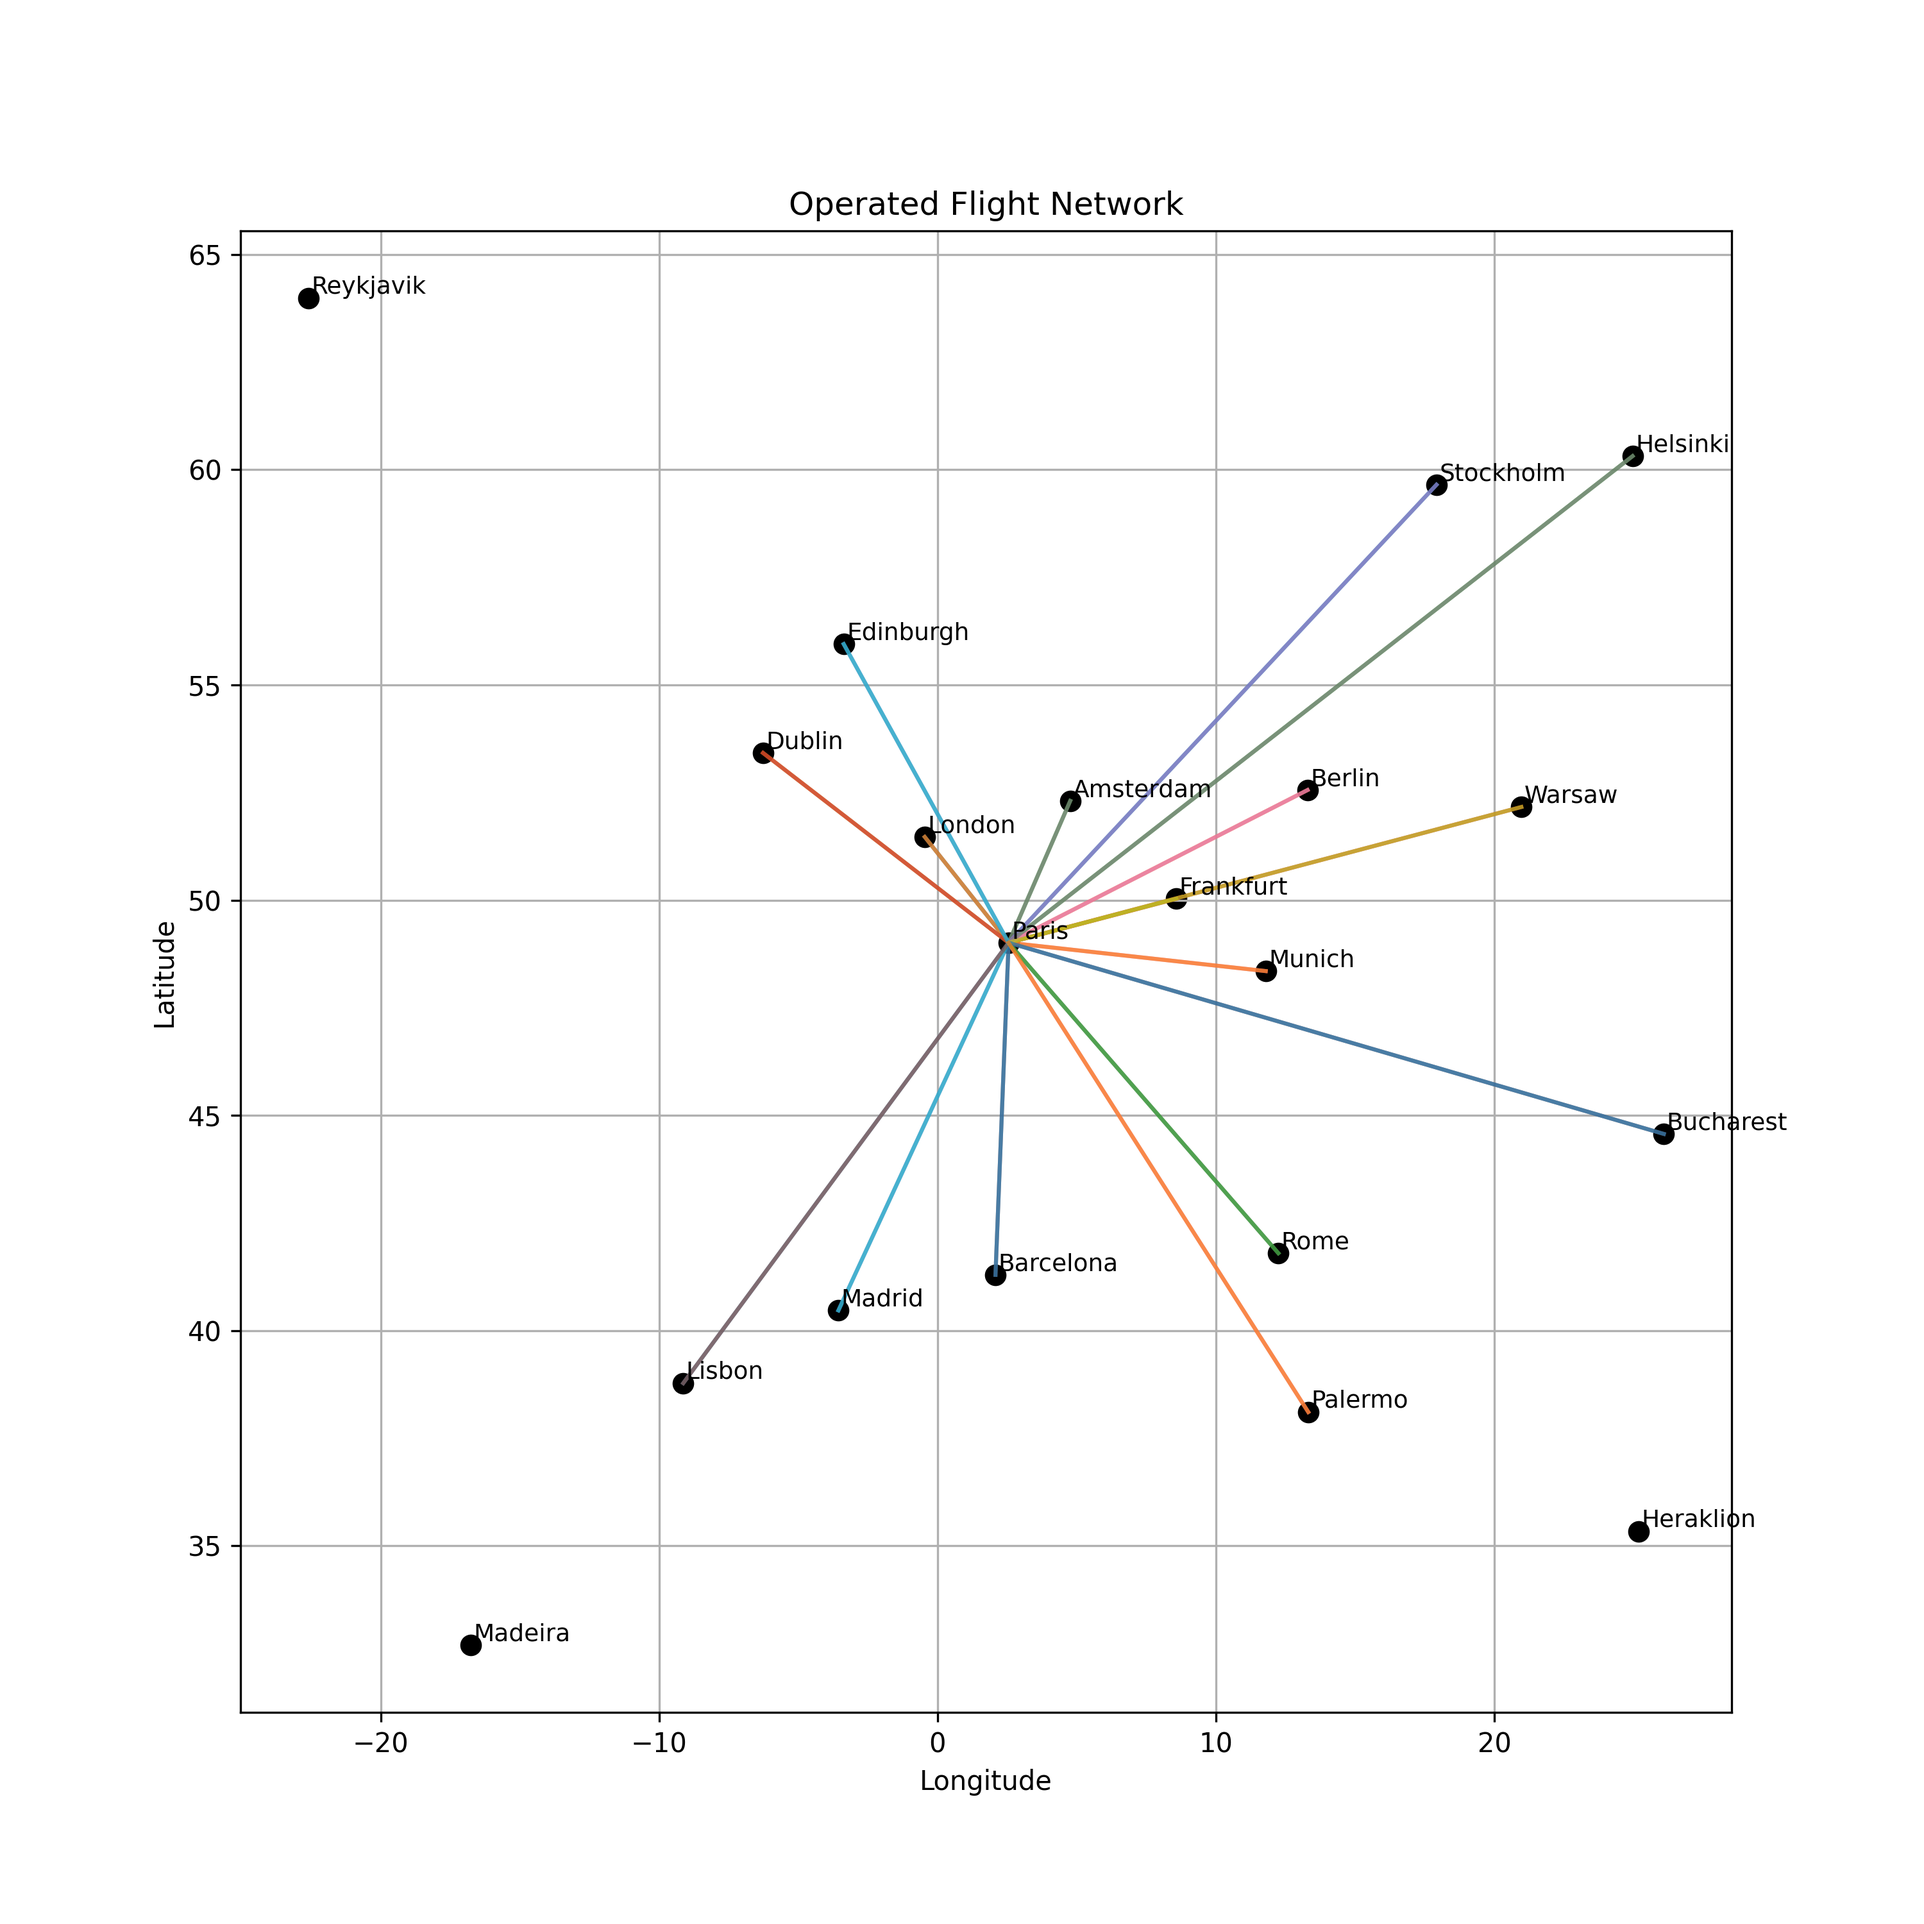
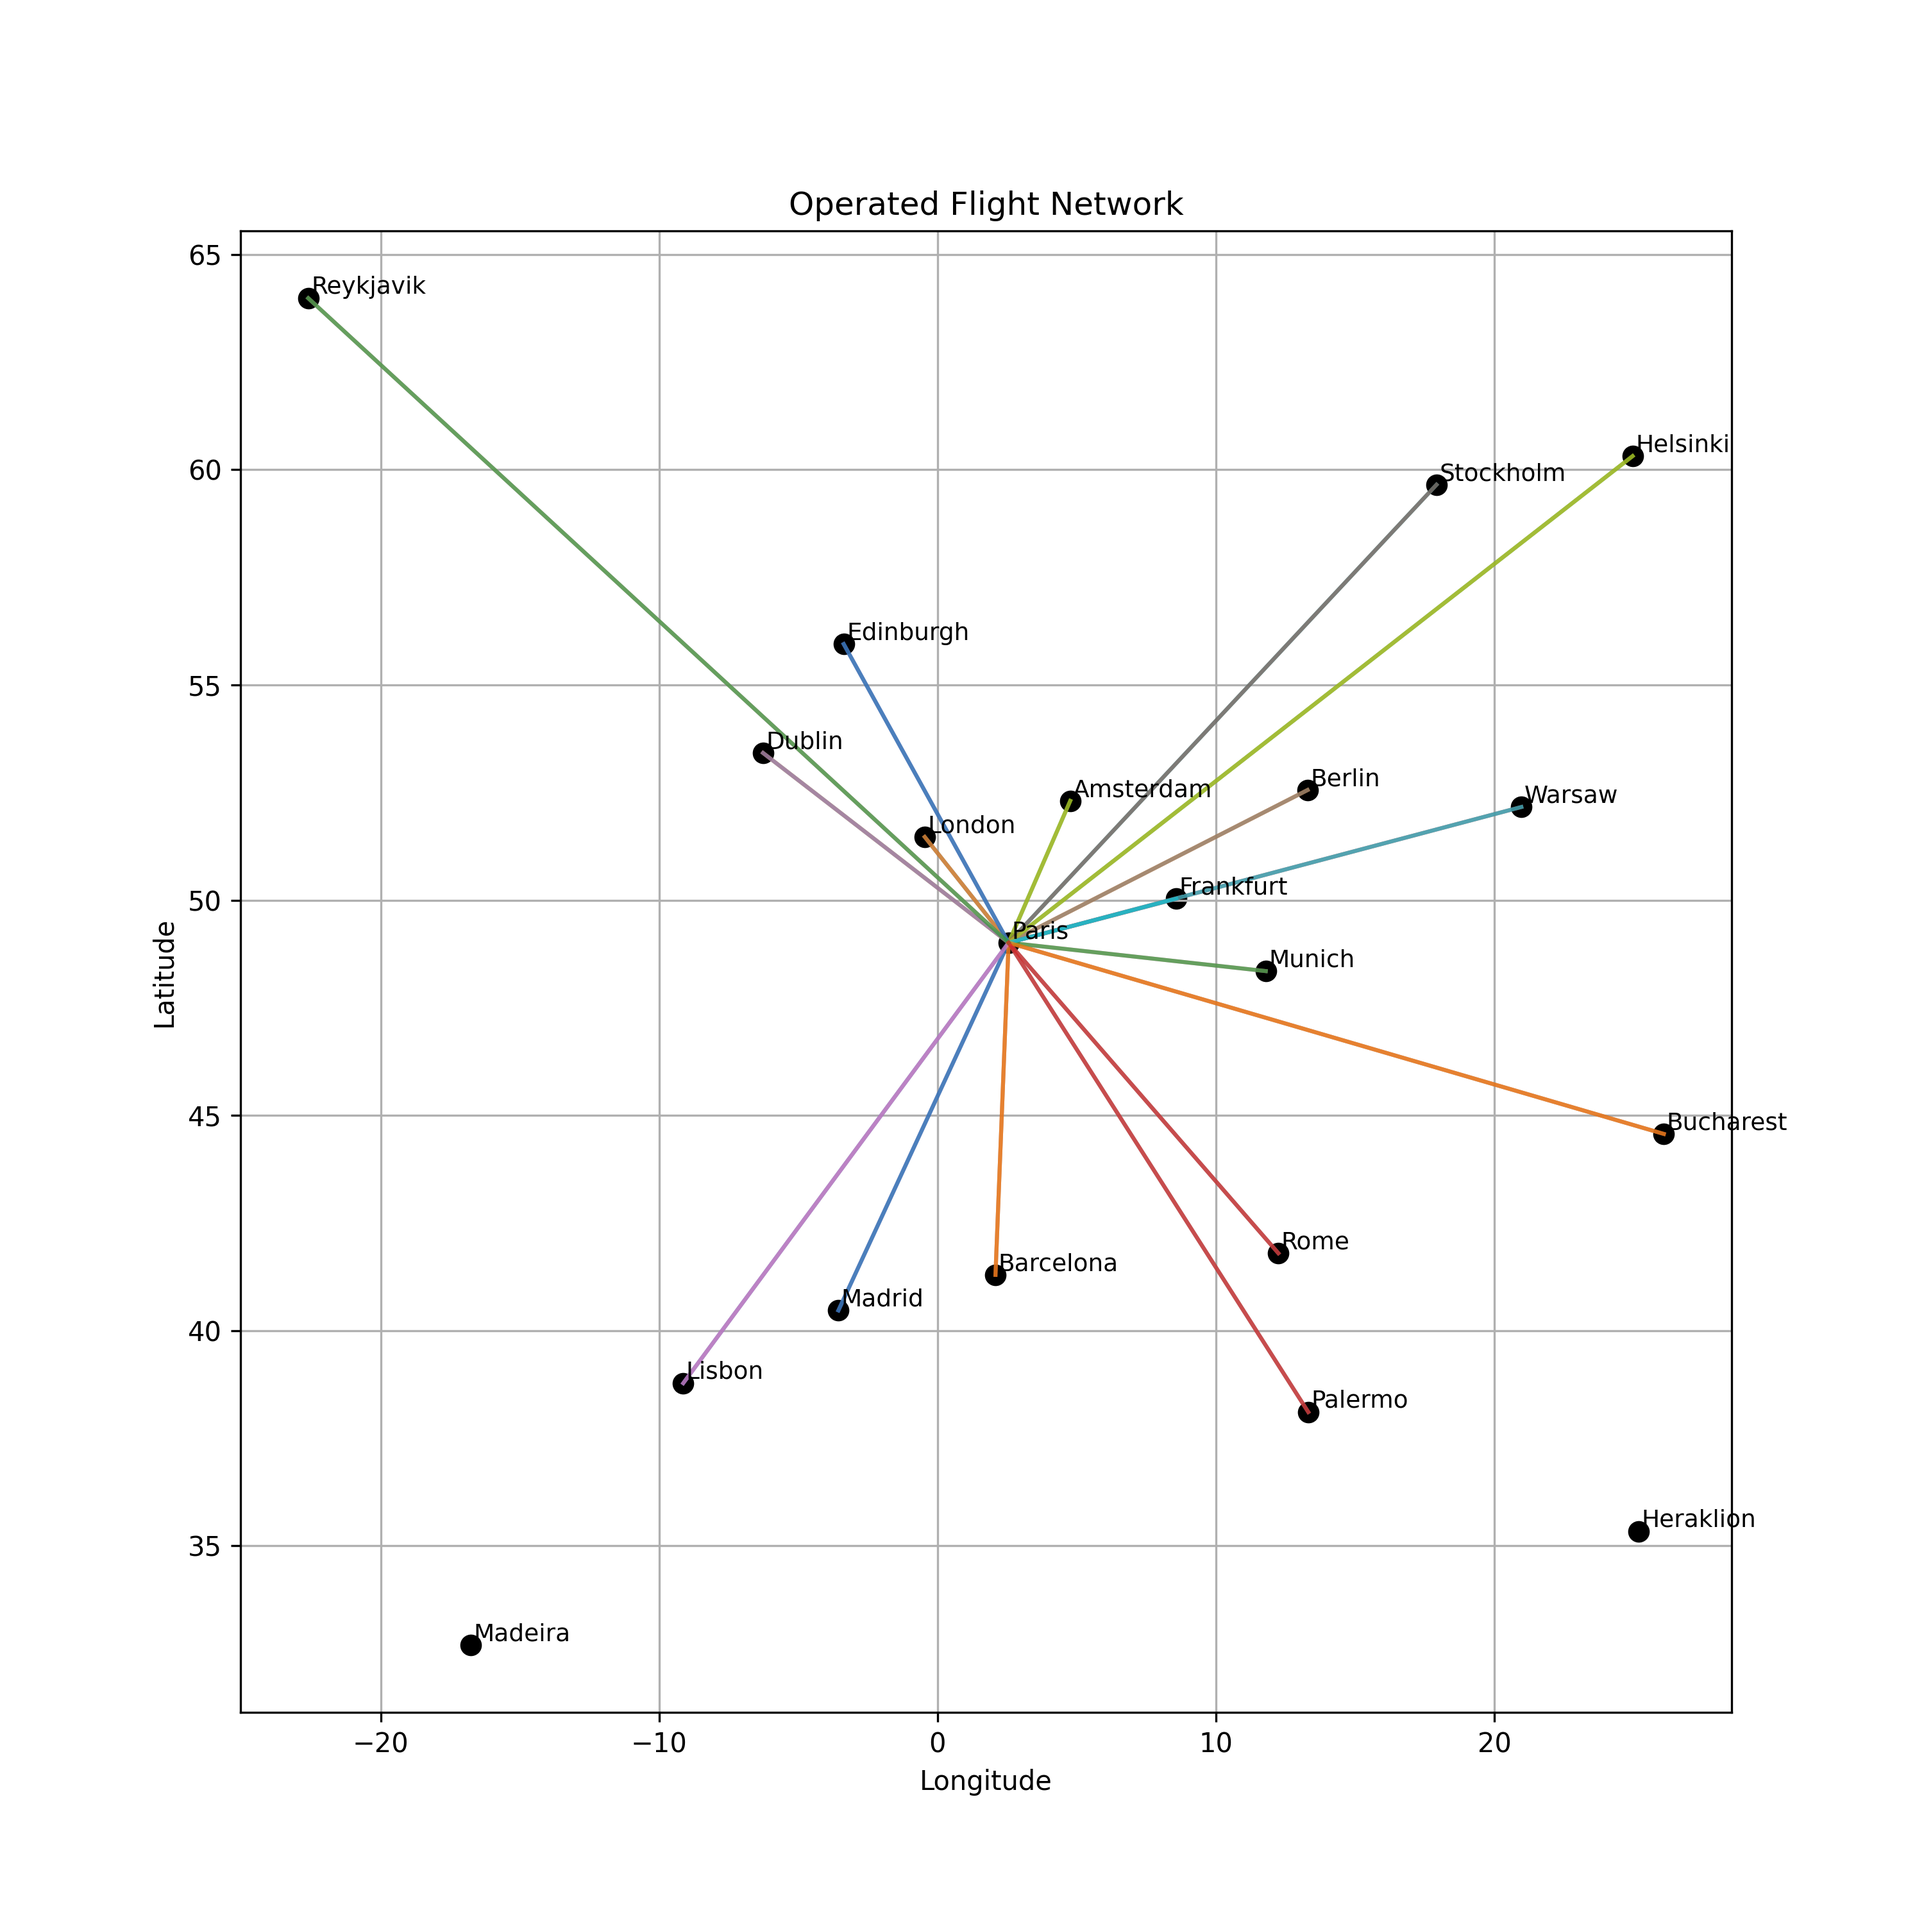
added tat adjustment for the hub and amount of flights flown per aircraft

diff --git a/Code/gurobi_model_question_1b.py b/Code/gurobi_model_question_1b.py
@@ -83,6 +83,7 @@ for k in aircraft_types:
 
 
 # Objective: maximize profit
+# Cost times 0.7 as all flights start or end at the hub
 objective = (
     quicksum(
         (distance_dict[i, j] * yield_dict[i, j]) * (x[i, j] + w[i, j])
@@ -151,11 +152,28 @@ for i in cities:
             name=f"aircraft_continuity_{i}_{k}",
         )
 
+# # Constraint 6: aircraft utilization constraint
+# for k in aircraft_types:
+#     model.addConstr(
+#         quicksum(
+#             ((distance_dict[i, j] / speed_dict[k]) + (TAT_dict[k] / 60)) * z[i, j, k]
+#             for i in cities
+#             for j in cities
+#         )
+#         <= BT * AC[k],
+#         name=f"aircraft_utilization_{k}",
+# )
+
 # Constraint 6: aircraft utilization constraint
+# Add adjustment for TAT when the flight is to the hub
 for k in aircraft_types:
     model.addConstr(
         quicksum(
-            ((distance_dict[i, j] / speed_dict[k]) + (TAT_dict[k] / 60)) * z[i, j, k]
+            (
+                (distance_dict[i, j] / speed_dict[k])
+                + ((TAT_dict[k] * (1.5 if j == "Paris" else 1)) / 60)
+            )
+            * z[i, j, k]
             for i in cities
             for j in cities
         )
@@ -199,7 +217,7 @@ for i in cities:
         name=f"slot_constraint_{i}",
     )
 
-model.params.MIPGap = 0.002
+model.params.MIPGap = 0.0075  ##Not ideal but otherwise is takes very long to run
 
 model.update()
 
@@ -230,6 +248,18 @@ if model.status == GRB.OPTIMAL:
     for k in aircraft_types:
         leased_count = sum(v.x for v in model.getVars() if v.varName == f"AC_{k}")
         print(f"{k}: {leased_count}")
+
+print("\n--- Flights per purchased aircraft type ---")
+
+for k in aircraft_types:
+    total_flights_k = sum(z[i, j, k].x for i in cities for j in cities)
+    if AC[k].x > 0:
+        flights_per_aircraft = total_flights_k / AC[k].x
+        print(
+            f"{k}: {total_flights_k:.0f} flights total | "
+            f"{AC[k].x:.0f} aircraft | "
+            f"{flights_per_aircraft:.2f} flights per aircraft"
+        )
 
 # --- Visualization of the operated flight network ---
 

diff --git a/Code/gurobi_model_question_2b.py b/Code/gurobi_model_question_2b.py
@@ -4,6 +4,7 @@ from data_loader import (
     mix_flow_recapture_loader,
 )
 
+
 (
     flight_numbers,
     origin_dict,
